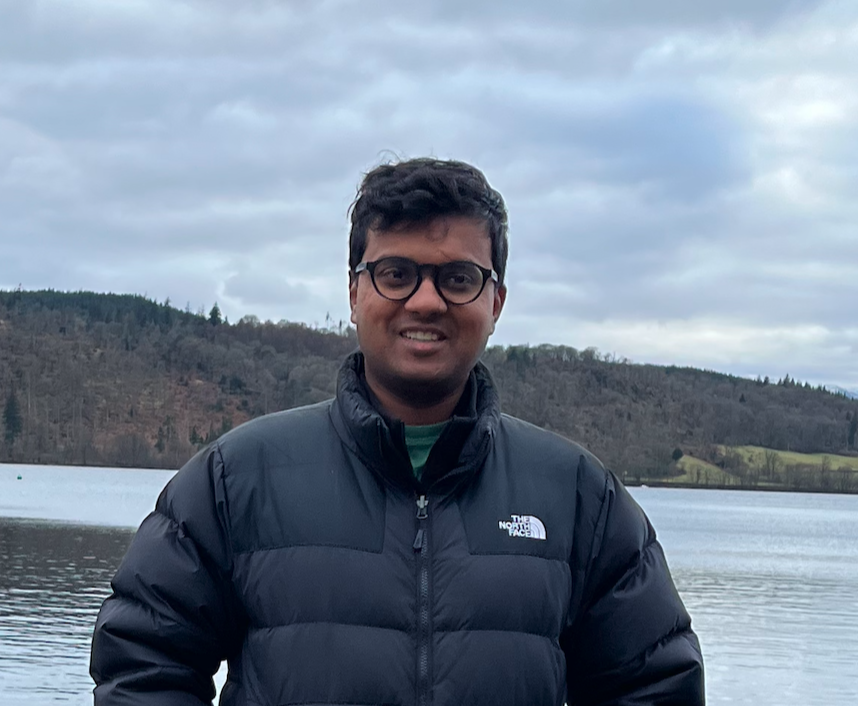
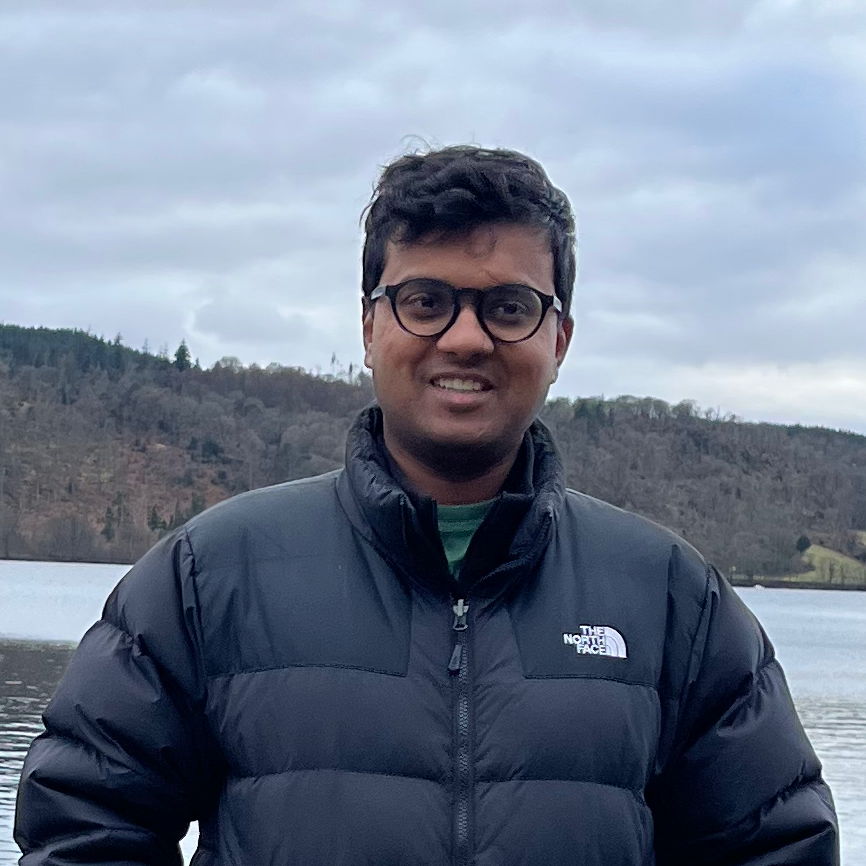
profile picture format options

diff --git a/README.md b/README.md
@@ -129,6 +129,6 @@ This is a personal website, but contributions or suggestions are welcome! Feel f
 
 ---
 
-**Last Updated:** 11-02-2026 12:27:59 UTC
+**Last Updated:** 11-02-2026 12:32:34 UTC
 
 *For more information about the Minimal Mistakes theme, visit: https://mmistakes.github.io/minimal-mistakes/*
